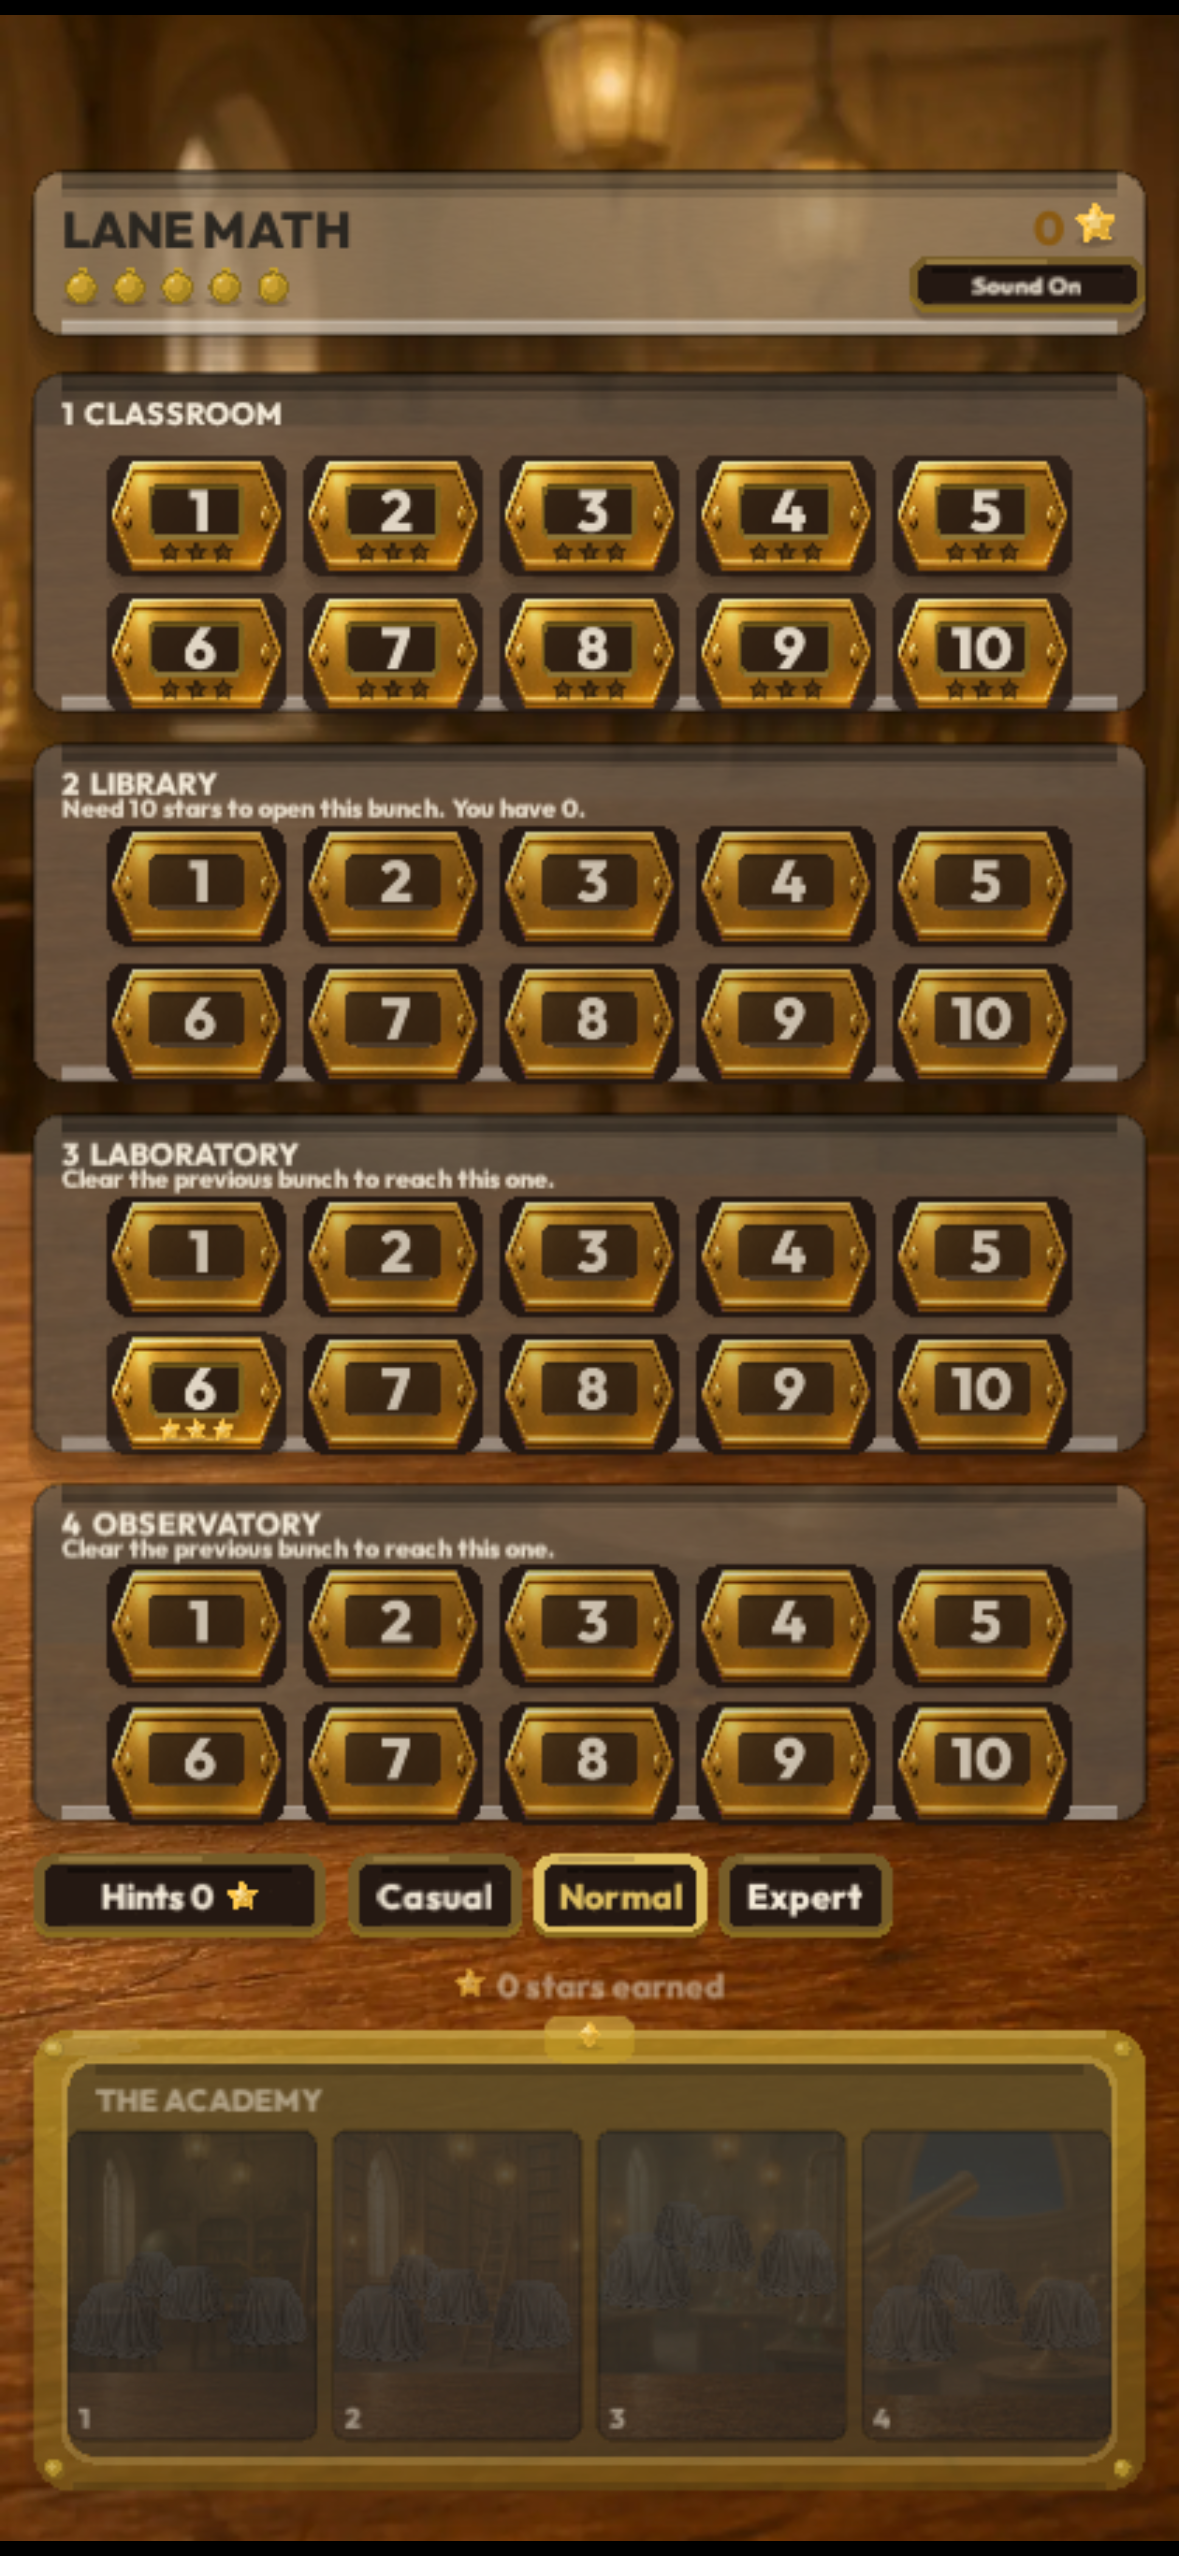
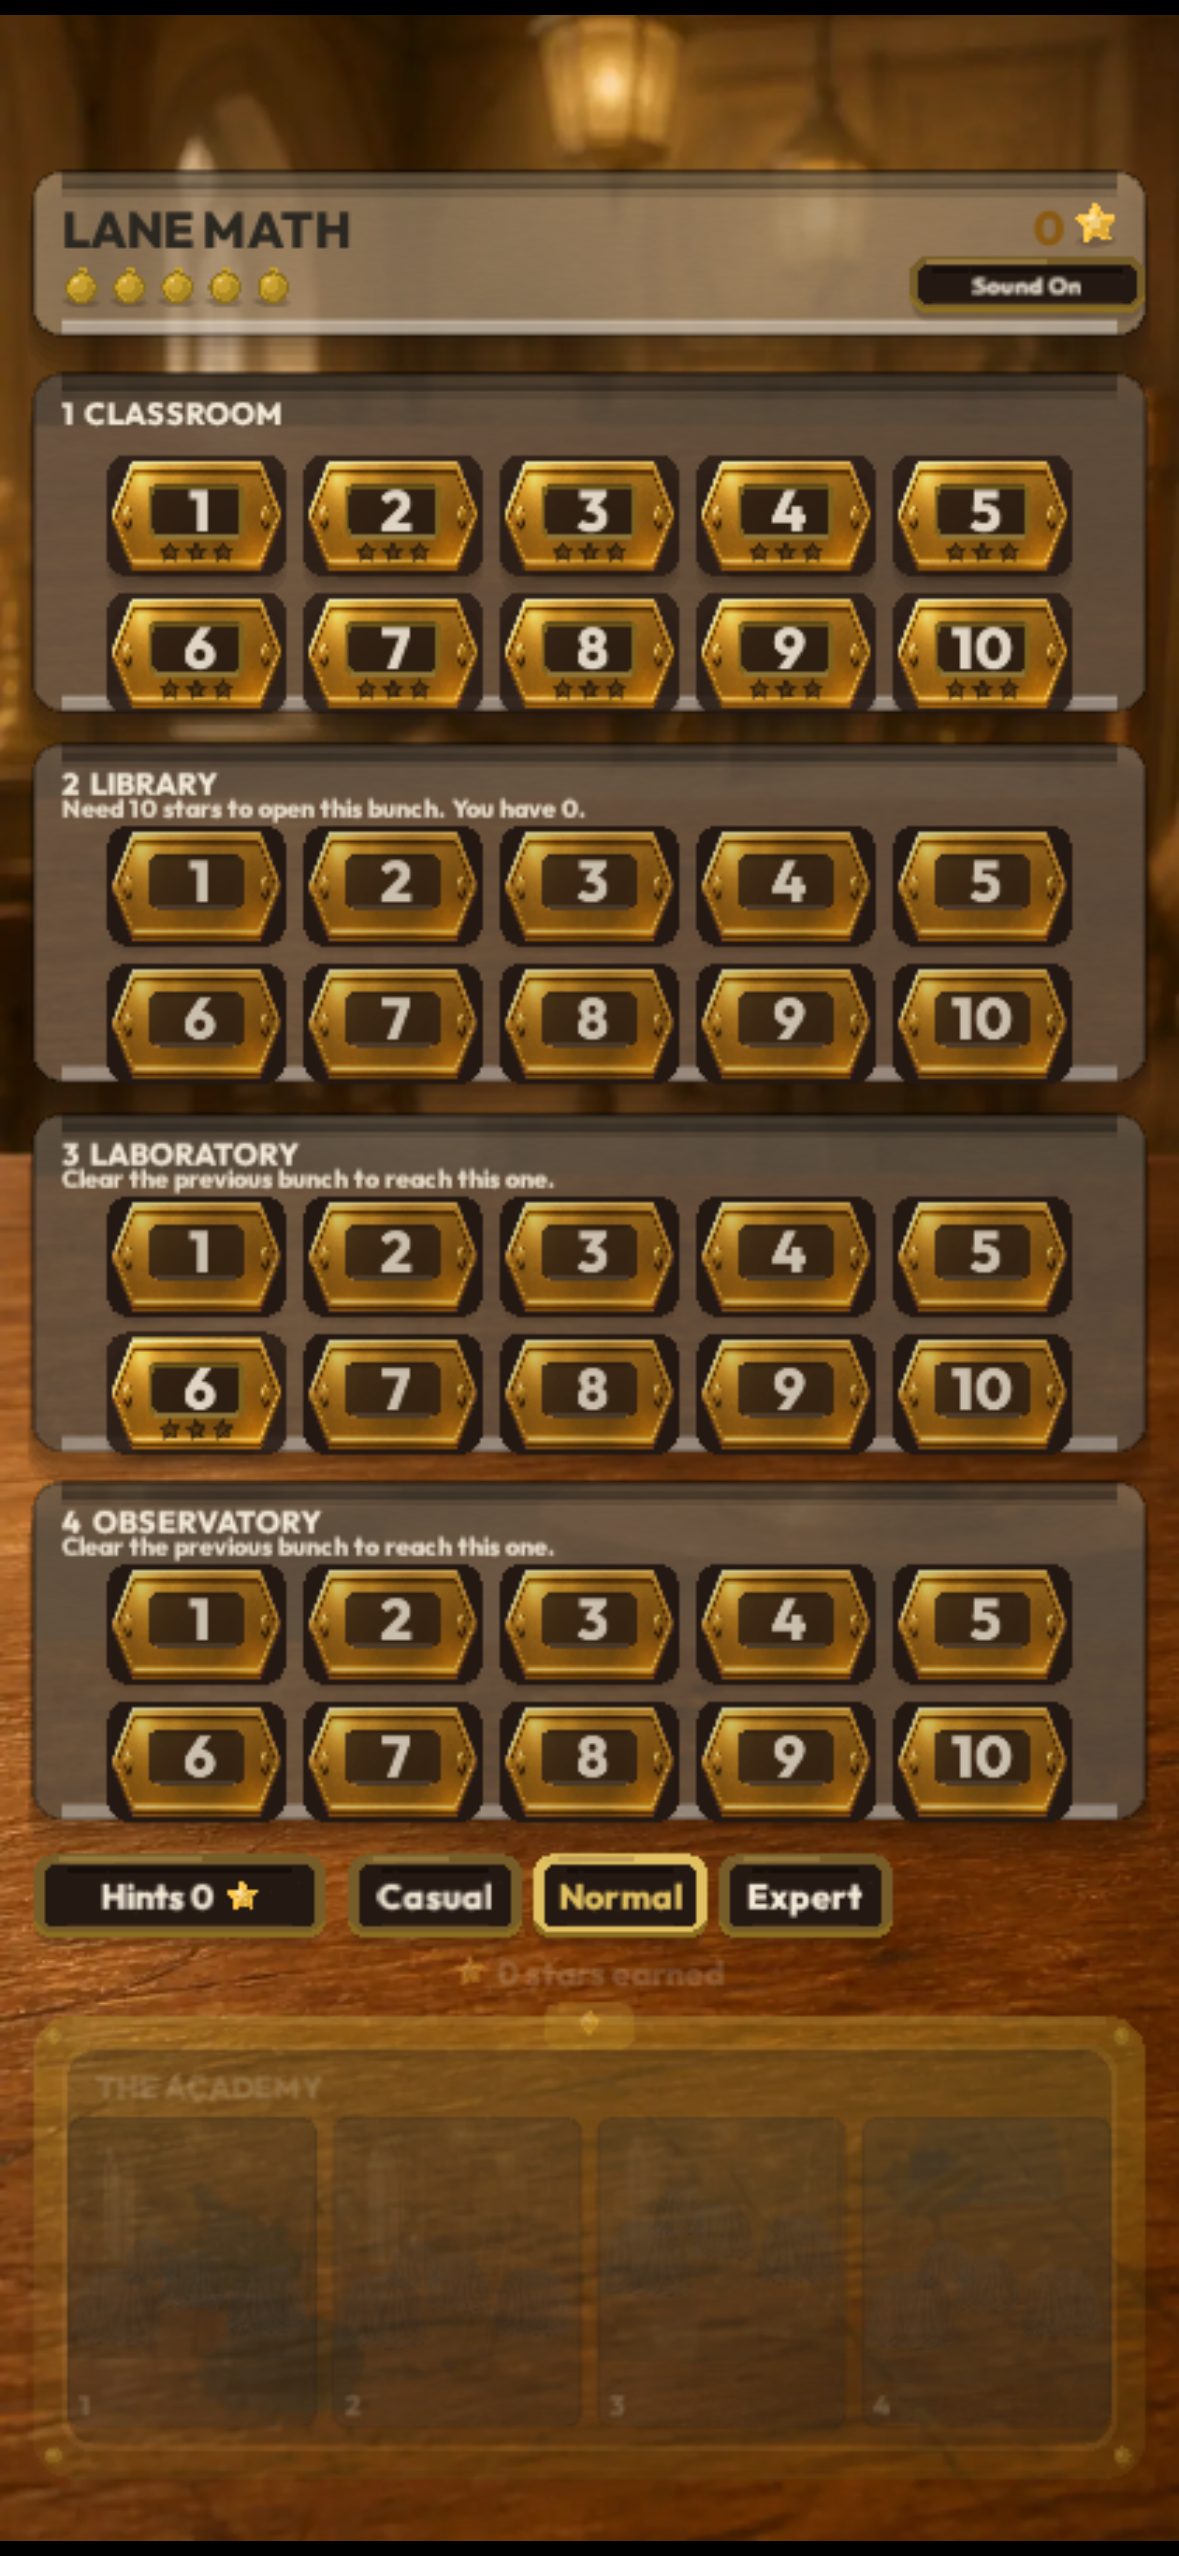
Fix zero-bank map plate stars

diff --git a/src/map/map-plate-presentation.test.ts b/src/map/map-plate-presentation.test.ts
@@ -1,7 +1,7 @@
 import { describe, expect, it } from "vitest";
 
 import { DIM, PALETTE } from "../renderer/layout.js";
-import { academyProgressCopy, mapFocusBeat, mapPlatePresentation, mapProgressCopy, worldGateCopy } from "./map-screen.js";
+import { academyProgressCopy, mapFocusBeat, mapPlatePresentation, mapPlateStars, mapProgressCopy, worldGateCopy } from "./map-screen.js";
 
 
 describe("the map's durable next-level focal", () => {
@@ -77,5 +77,17 @@ describe("Academy progress badge", () => {
 
   it("shows the restored tally once earned stars qualify it", () => {
     expect(academyProgressCopy(10, 16, 10)).toBe("10 of 16 restored");
+  });
+});
+
+
+describe("map plate stars", () => {
+  it("empties stale earned stars while the lifetime bank is zero", () => {
+    expect(mapPlateStars("cleared", 3, 0)).toBe(0);
+    expect(mapPlateStars("locked", 3, 0)).toBe(0);
+  });
+
+  it("keeps earned stars once the bank is non-zero", () => {
+    expect(mapPlateStars("cleared", 3, 10)).toBe(3);
   });
 });

diff --git a/src/map/map-screen.ts b/src/map/map-screen.ts
@@ -36,6 +36,11 @@ export function academyProgressCopy(restored: number, totalObjects: number, tota
   return totalStars > 0 ? `${restored} of ${totalObjects} restored` : "";
 }
 
+/** Empty stale best ratings when the lifetime bank has been reset. */
+export function mapPlateStars(state: LevelState, stars: number, totalStars: number): number {
+  return state === "cleared" && totalStars > 0 ? stars : 0;
+}
+
 /**
  * The world map (GDD §7.6, unlocked by clearing 1-10).
  *
@@ -401,7 +406,7 @@ export class MapScreen {
       // 8, and sat low: at 9 the row clipped the numeral's descender, which is
       // the kind of overlap that only shows up once real progress is on screen.
       const size = 8;
-      const stars = emblemMeter("star", level.stars, 3, size);
+      const stars = emblemMeter("star", mapPlateStars(level.state, level.stars, this.view?.totalStars ?? 0), 3, size);
       stars.position.set((w - meterWidth(3, size)) / 2, h - 7 - size / 2);
       face.addChild(stars);
     }

diff --git a/docs/review/FTUE_POLISH_101_HANDOFF.md b/docs/review/FTUE_POLISH_101_HANDOFF.md
@@ -23,3 +23,9 @@ Visible in the fresh shortfall shot:
 - Existing `mapProgressCopy` behavior and 1-01 map/board flow remain covered.
 
 DRAFT ONLY — never merge.
+
+## Residual reject fix
+
+The map renderer now empties every cleared plate star well while totalStars is zero, including stale cleared plates in locked later worlds. A non-zero bank keeps the existing best-star meter.
+
+Reproducible review save: tools/map-star-gate-shortfall.json. Fresh evidence has empty star wells on all plates at the 0-star bank; no filled plate stars remain.
